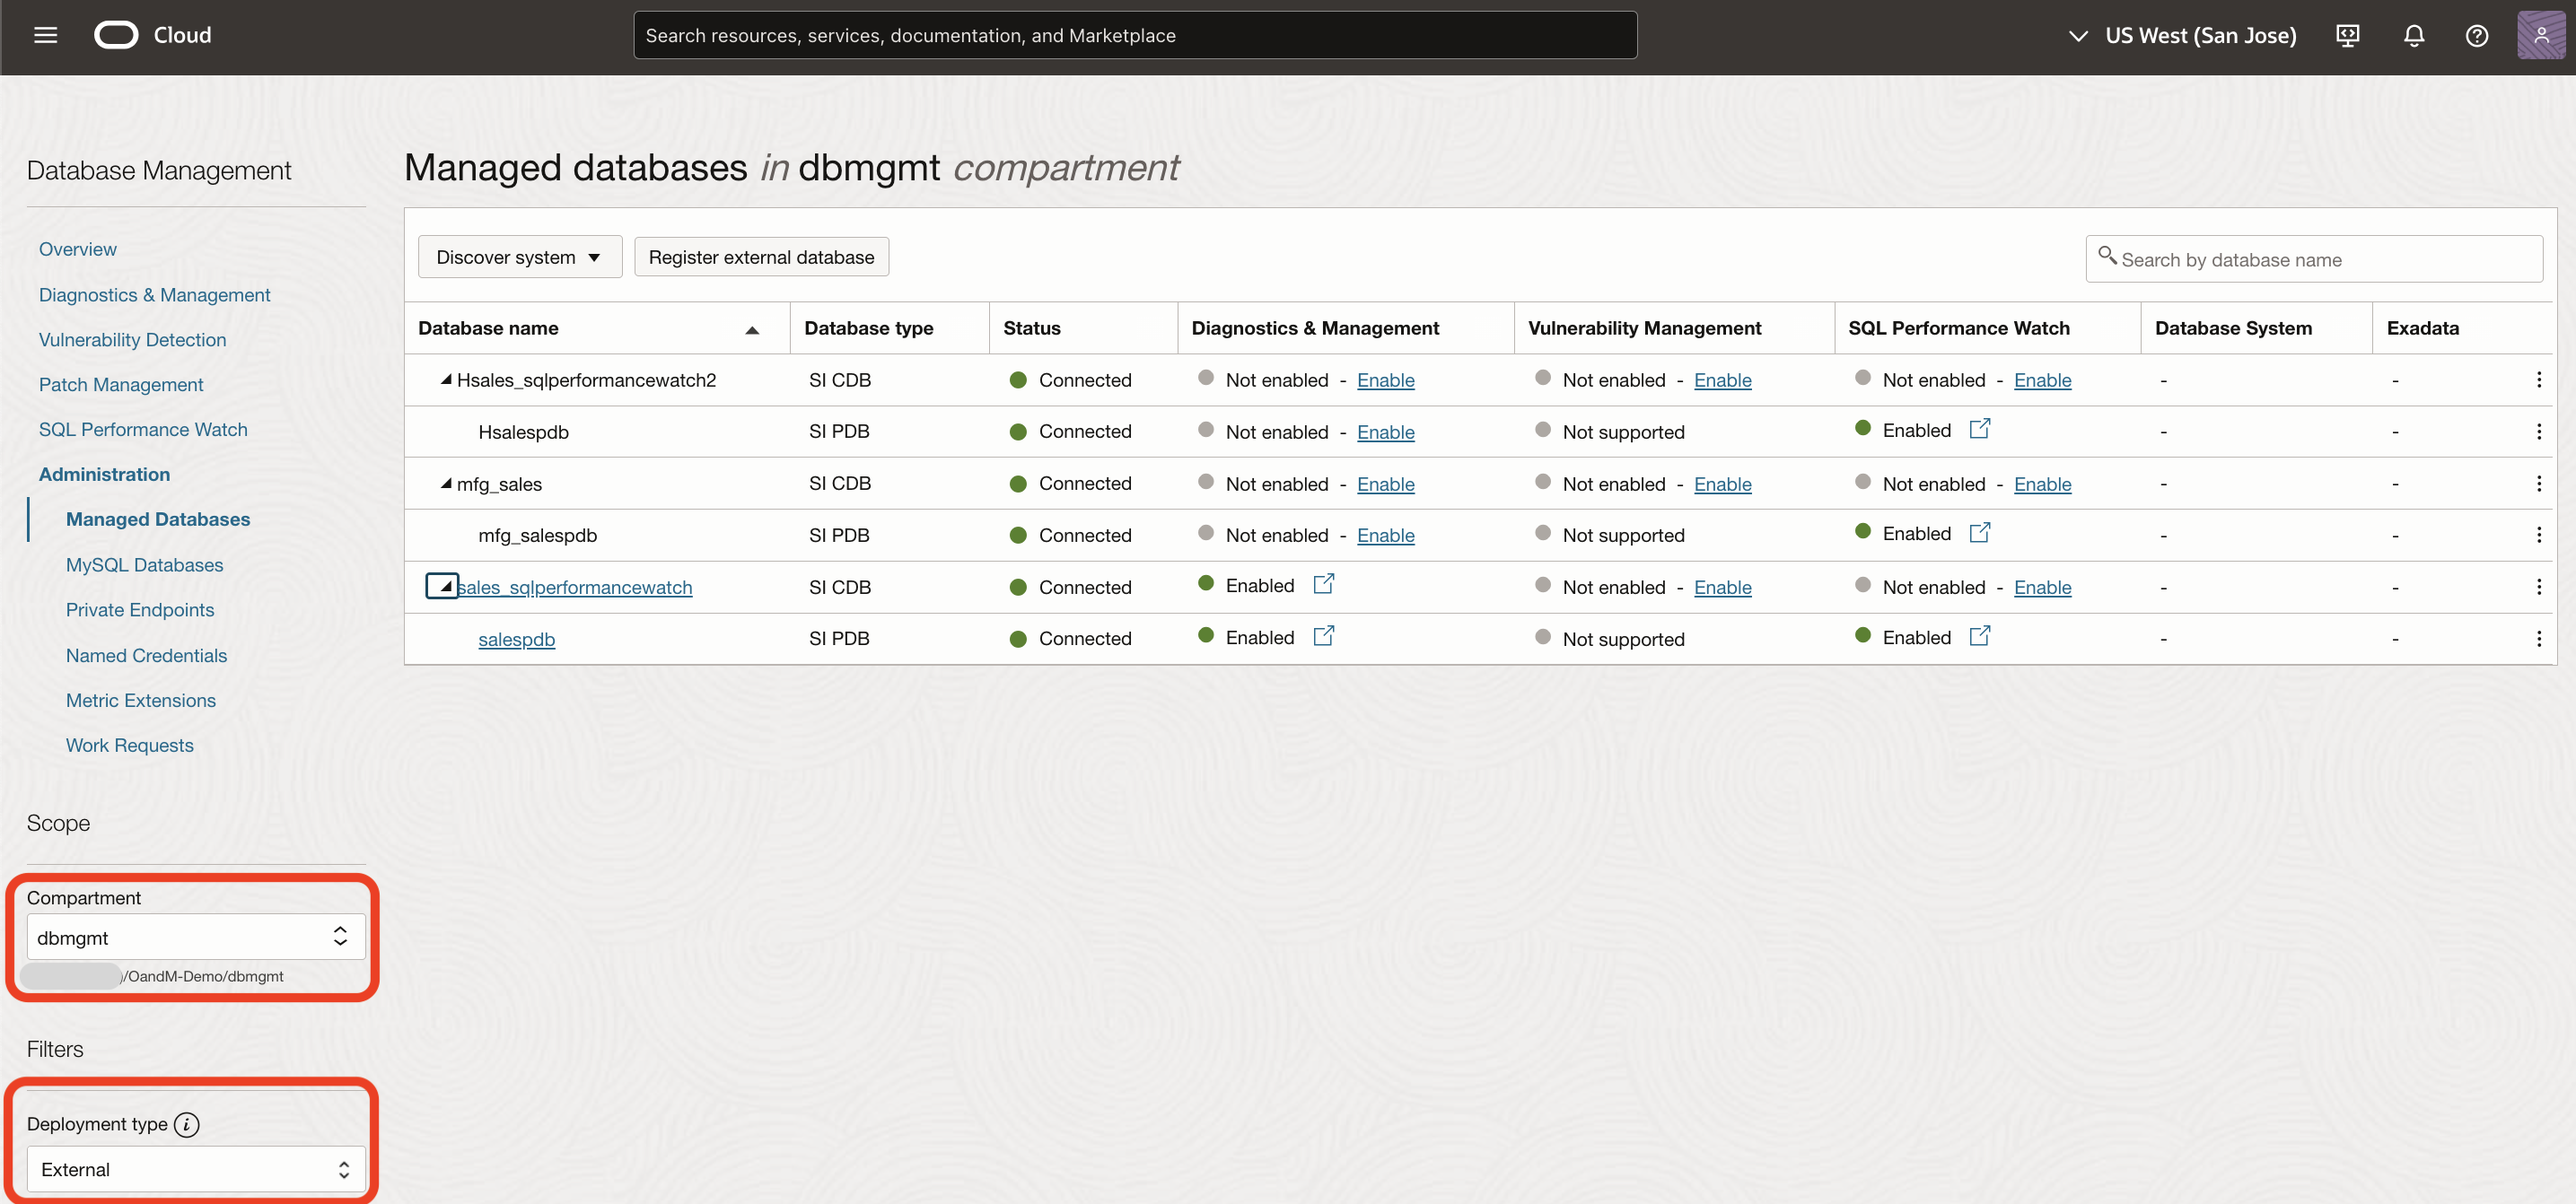
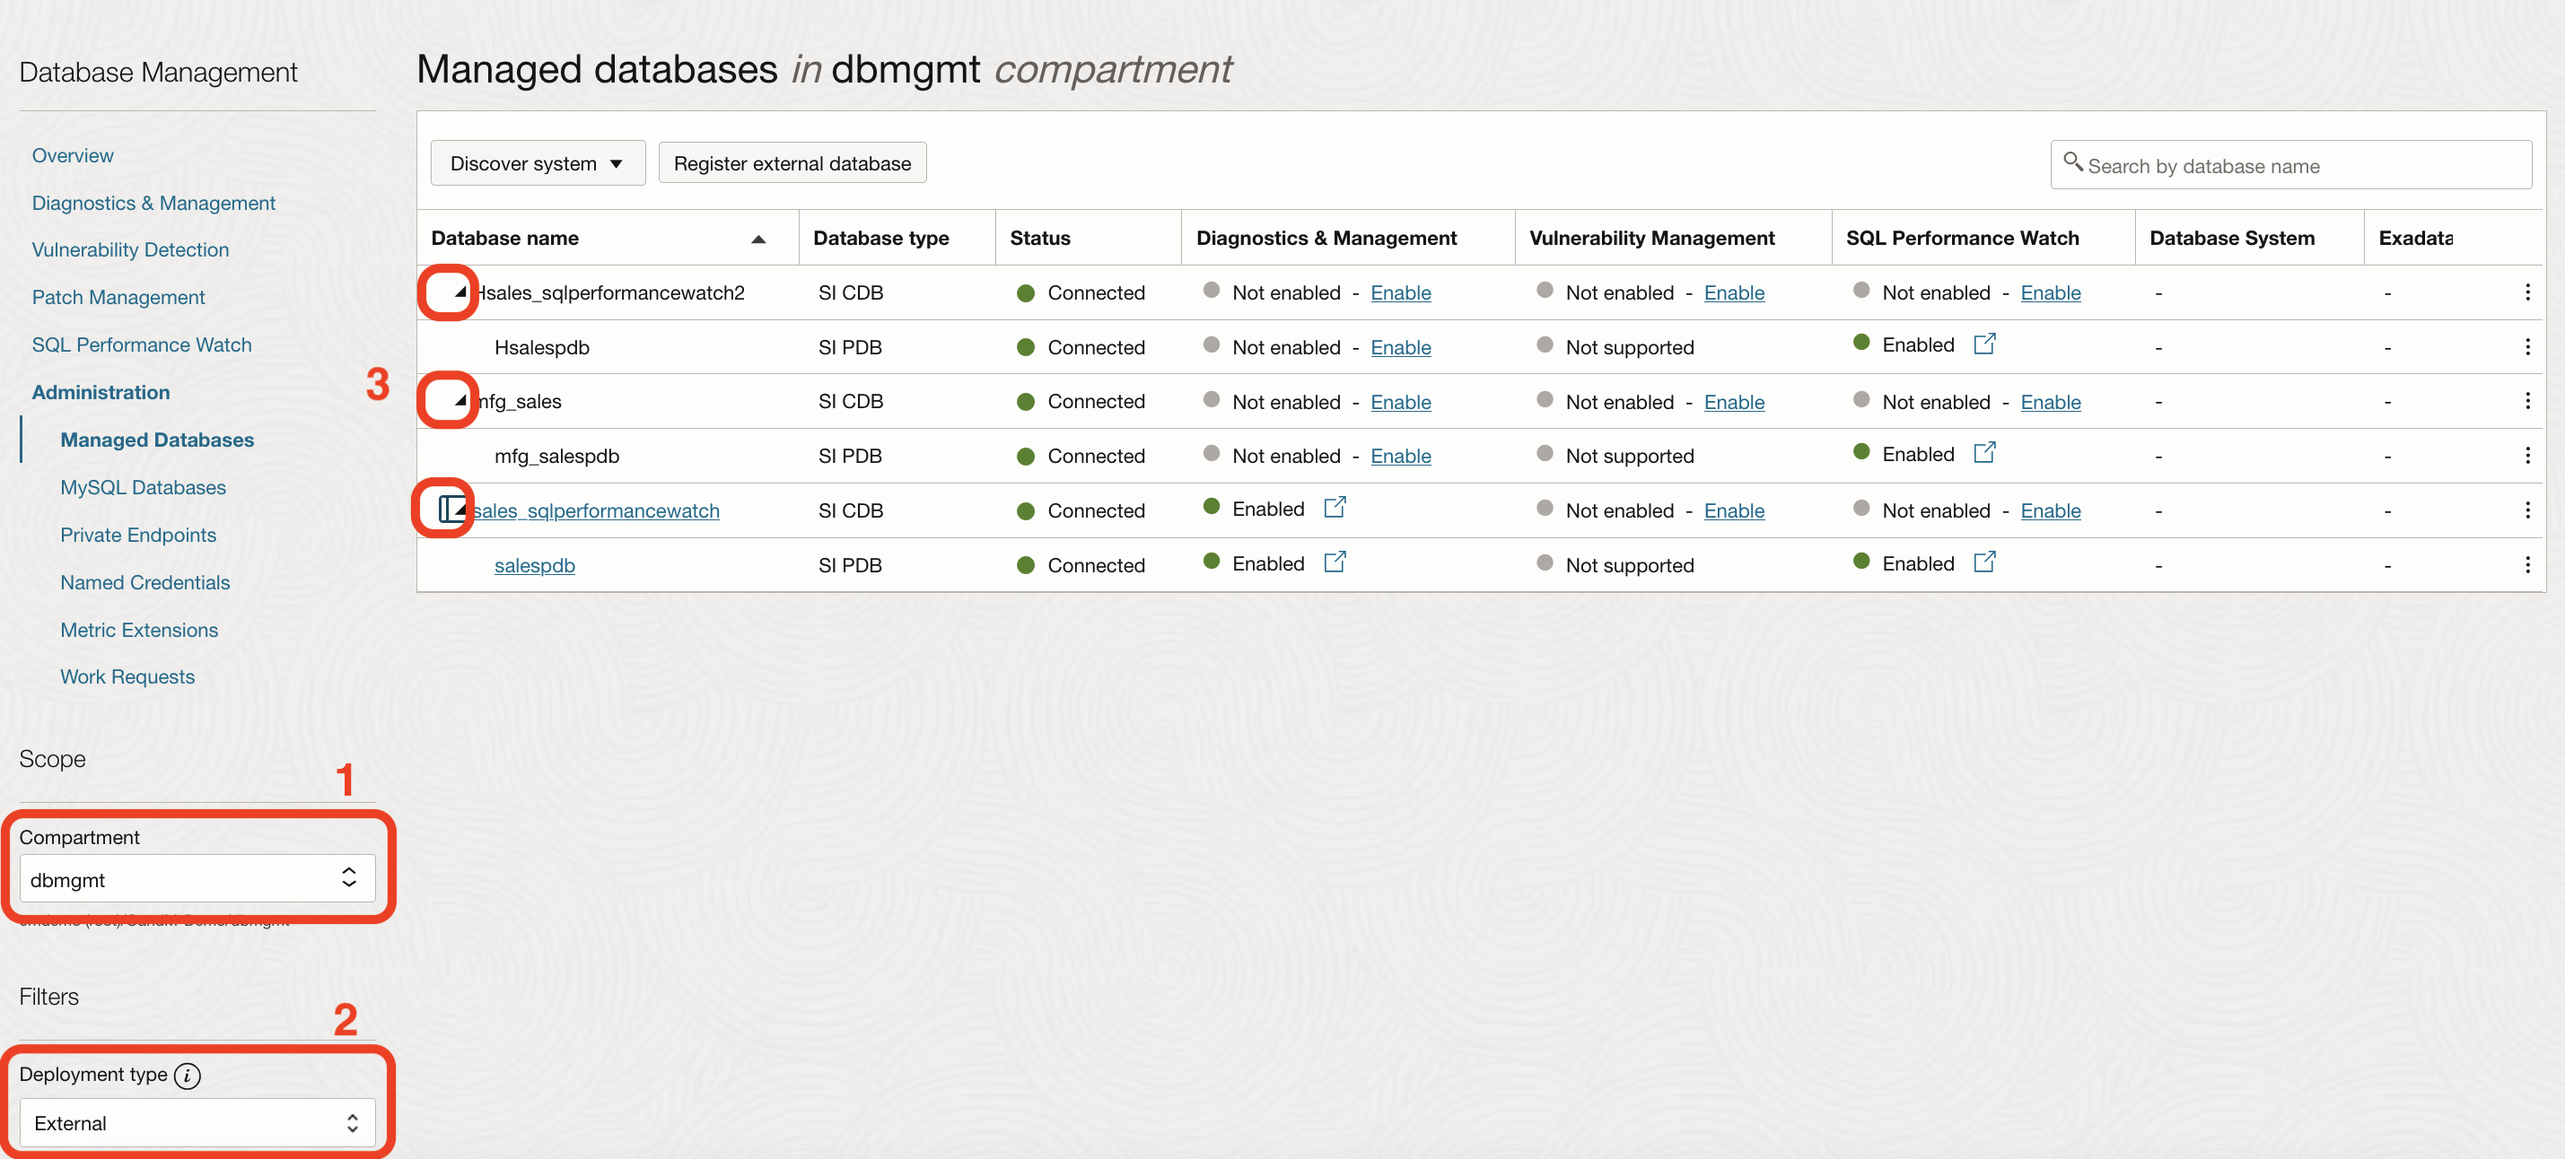
Feedback Incorporated
Feedback Incorporated

diff --git a/oci-sql-performance-watch/sqlwatch-features/sqlwatch-features-skfy26.md b/oci-sql-performance-watch/sqlwatch-features/sqlwatch-features-skfy26.md
@@ -68,8 +68,13 @@ This lab assumes you have already completed the following:
 
     ![Administration Page Error](./images/administrationpageerror.png " ")
 
-   Change the compartment to **dbmgmt** and deployment type as **External** to view the external databases as shown in the below image.
-   *Note: External databases are non-OCI databases discovered using Management Agent. They are monitored through the Management Agent, which collects metrics, performs diagnostics, and enables lifecycle operations.*
+       1. Change the compartment to **dbmgmt** 
+       2. Choose deployment type as **External** to view the external databases
+       3. Expand the CDBs as shown to view all the PDBs
+   
+
+       
+	   *Note: External databases are non-OCI databases discovered using Management Agent. They are monitored through the Management Agent, which collects metrics, performs diagnostics, and enables lifecycle operations.*
 
 	![Compartment and Deployment Type Selection](./images/compartment&deploymenttype.png " ")
 	

diff --git a/operations-insights/capacity-planning-exa/capacity-planning-exa-skfy26.md b/operations-insights/capacity-planning-exa/capacity-planning-exa-skfy26.md
@@ -68,9 +68,13 @@ This lab assumes you have completed the following labs:
 
 8.  Now choose **Allocation (CPU)** under **Size** and **Usage Change (%)** under **Color**.
 
-      ![Left Pane](./images/max-allocation-usage-change-ocw.png " ")
+      ![Left Pane](./images/max-allocation-usage-change-ocw-before.png " ")
 
-9.  To show the trend & forecast of CPU for Host and Database, click on the hostname and highlight the trend graph.
+    Heatmap gets updated based on the selection as shown below
+
+      ![Left Pane](./images/max-allocation-usage-change-ocw-after.png " ")
+
+9.  To show the trend & forecast of CPU for Host and Database, click on the hostname **DBM08adm04.us.oracle.com** and highlight the trend graph.
 
       ![Left Pane](./images/trend-host-cpu-ocw.png " ")
 

diff --git a/operations-insights/sql-performance/sql-performance-skfy26.md b/operations-insights/sql-performance/sql-performance-skfy26.md
@@ -33,6 +33,10 @@ Estimated Time: 5 minutes
 
 1. On the **Ops Insights Overview** page, from the left pane click **Database Insights** and that will select **SQL Insights** and **Fleet Analysis**. On the **SQL Insights - Fleet analysis** page you can view insights and analysis over all SQL and all databases enabled in the compartment.
 
+  *Note: A warning is shown on the screen **"Autonomous Databases exist that are not yet enabled for full features. Full feature set must be enabled to use SQL Explorer. Learn more".** Close the warning message as shown below and proceed to Task 2*
+
+      ![Left Pane](./images/sql-insights-before.png " ")
+
       ![Left Pane](./images/sql-insights.png " ")
 
 2. Click **SQL activity loadmap** to view the tree map.

diff --git a/oci-database-management/ocw-oci-dbm/dbmgmt-features/dbmgmt-features-skfy26.md b/oci-database-management/ocw-oci-dbm/dbmgmt-features/dbmgmt-features-skfy26.md
@@ -58,6 +58,8 @@ This lab assumes you have already completed the following:
 
      ![Performance Hub](./images/perf-hub-ocw.png " ")
 
+     *Note: Since all attendees are accessing the **MFG** database, it may experience high load. If the MFG database is slow to display data in Performance Hub, please switch to the **PRODCRM** database and continue performing the below tasks there.* 
+
 2.  This will launch the **Performance Hub** page. Performance Hub provides a single view of the database’s performance and enables you to perform the rapid diagnosis of its issues.
 
      ![Performance Hub](./images/perf-hub1-ocw.png " ")
